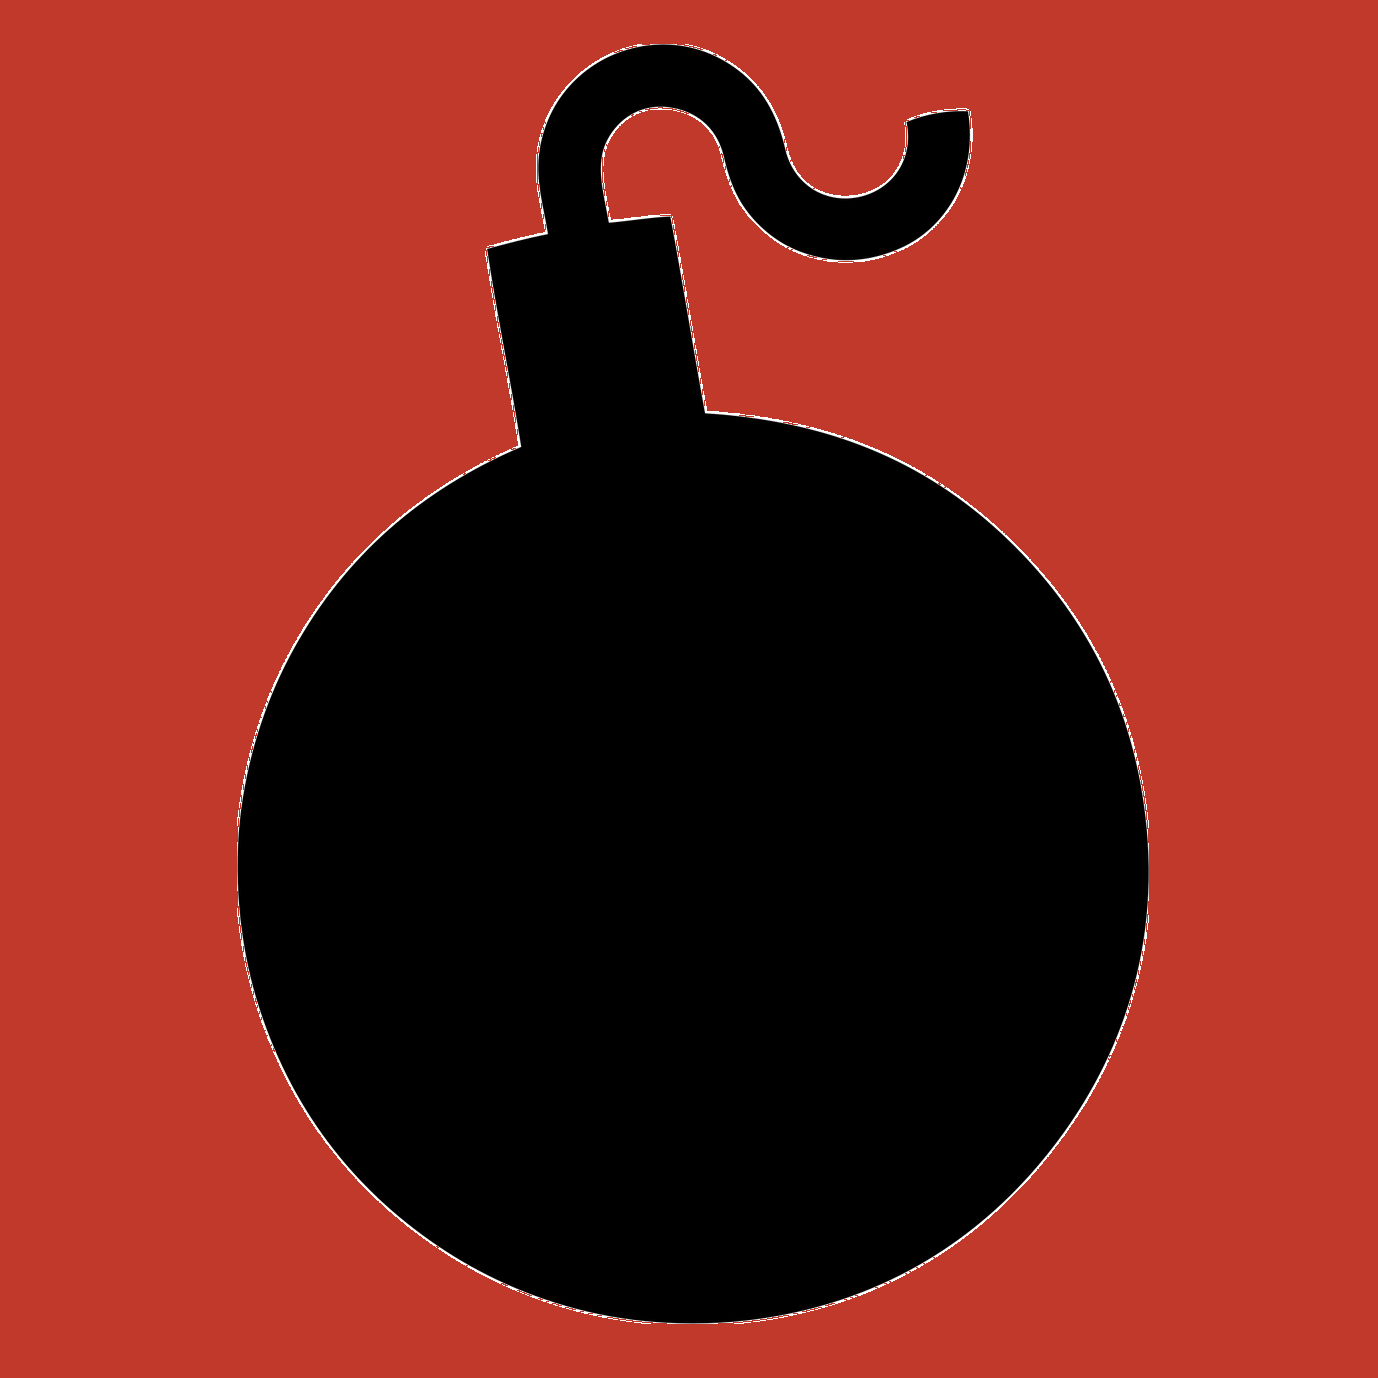
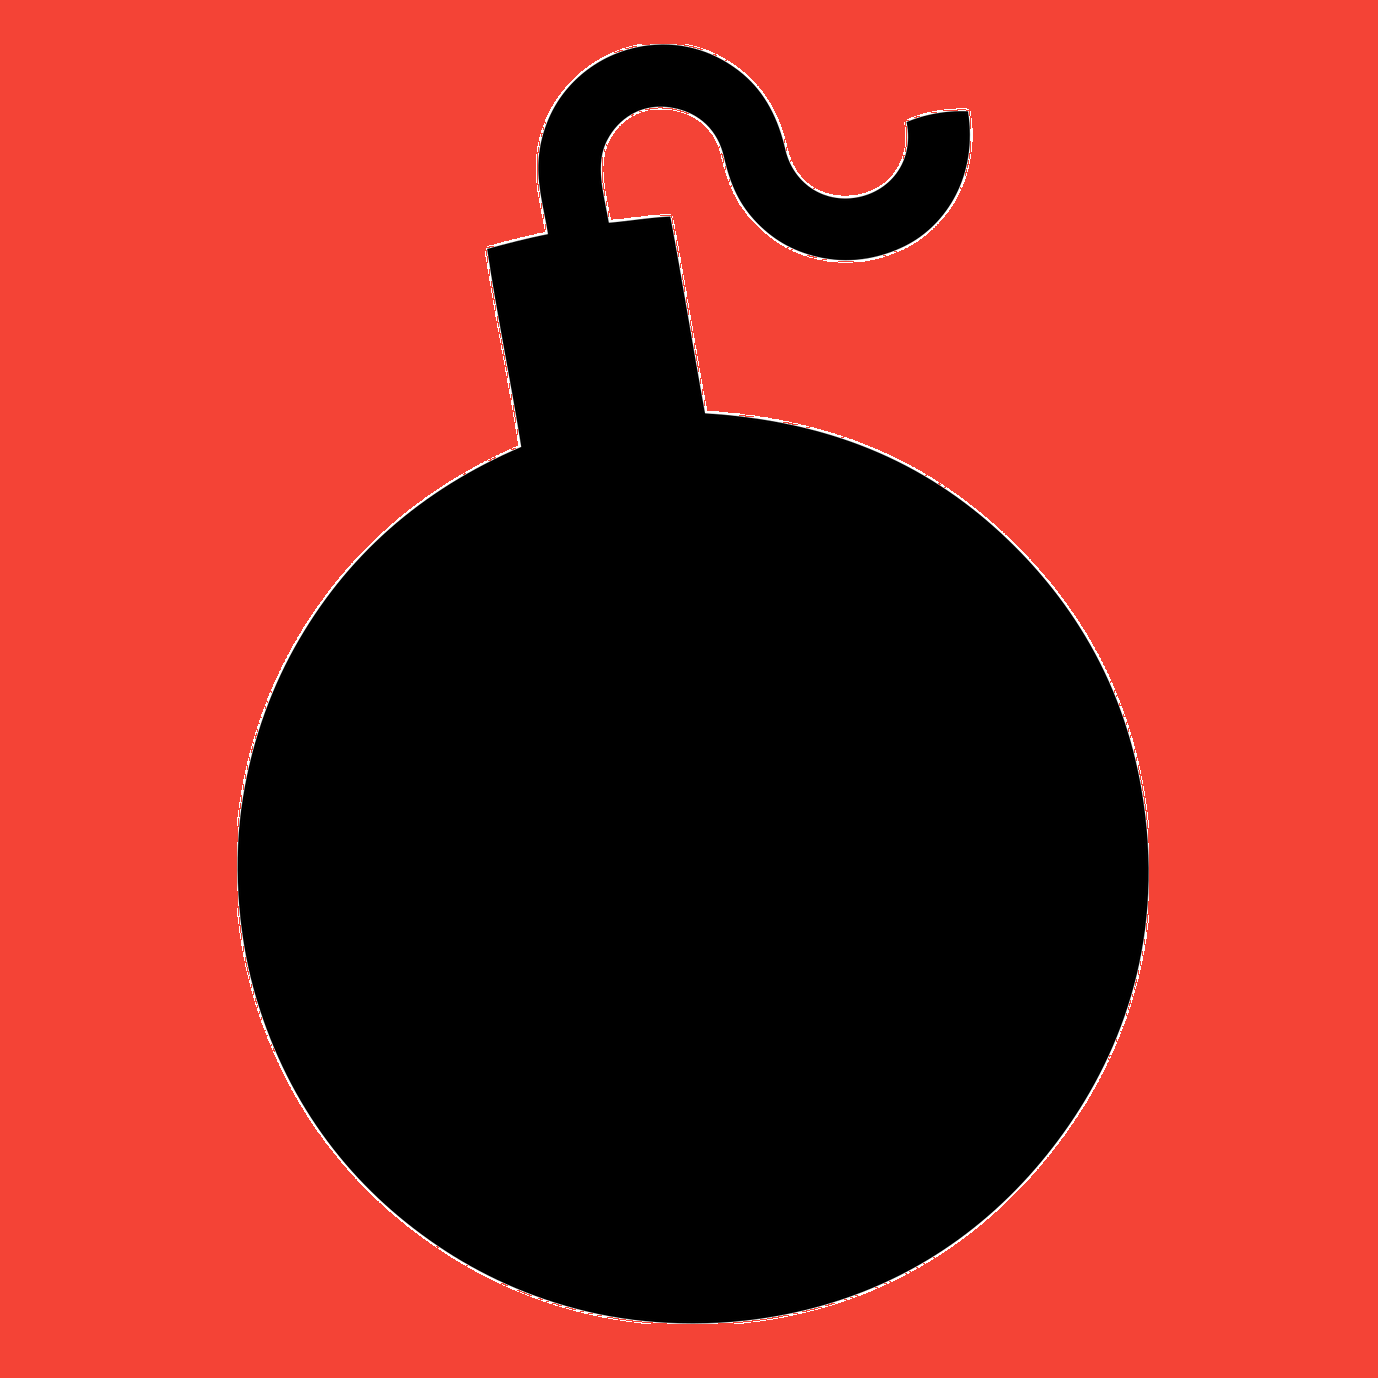
Altered colour design. Decoupled gamengine and audimanager. GameManager is now managing the ingame sounds

diff --git a/SnakeUi/MVVM/View/Game/InfoboardView.xaml b/SnakeUi/MVVM/View/Game/InfoboardView.xaml
@@ -14,9 +14,6 @@
         <CornerRadius x:Key="CornerRadius">10</CornerRadius>
         <Thickness x:Key="ImageMargin">50,0,0,0</Thickness>
         <Thickness x:Key="ValueMargin">30,0,0,0</Thickness>
-        <SolidColorBrush x:Key="BorderBackground" Color="#2f3640" />
-        <SolidColorBrush x:Key="LabelTextColor" Color="#7f8fa6" />
-        <SolidColorBrush x:Key="ValueTextColor" Color="#dcdde1" />
     </UserControl.Resources>
 
     <Grid Margin="0,0,0,5">
@@ -36,7 +33,7 @@
             Grid.Column="0"
             Grid.Row="0"
             CornerRadius="{StaticResource CornerRadius}"
-            Background="{StaticResource BorderBackground}"
+            Background="{StaticResource ButtonBackgroundBrush}"
             Margin="0,0,5,0">
 
             <StackPanel Orientation="Horizontal">
@@ -49,7 +46,7 @@
                 <TextBlock 
                     FontSize="{StaticResource ValueFontSize}"
                     Margin="{StaticResource ValueMargin}"
-                    Foreground="{StaticResource ValueTextColor}"
+                    Foreground="{StaticResource TextForegroundBrush}"
                     Text="{x:Bind InfoboardModel.SpeedFactor , Mode=OneWay}" />
             </StackPanel>
         </Border>
@@ -59,7 +56,7 @@
             Grid.Column="1"
             Grid.Row="0"
             CornerRadius="{StaticResource CornerRadius}"
-            Background="{StaticResource BorderBackground}"
+            Background="{StaticResource ButtonBackgroundBrush}"
             Margin="0,0,5,0">
             <StackPanel Orientation="Horizontal">
                 
@@ -73,7 +70,7 @@
                 <TextBlock 
                     FontSize="{StaticResource ValueFontSize}"
                     Margin="{StaticResource ValueMargin}"
-                    Foreground="{StaticResource ValueTextColor}"
+                    Foreground="{StaticResource TextForegroundBrush}"
                     Text="{x:Bind InfoboardModel.Score , Mode=OneWay}" />
                 
             </StackPanel>
@@ -84,7 +81,7 @@
             Grid.Column="2"
             Grid.Row="0"
             CornerRadius="{StaticResource CornerRadius}"
-            Background="{StaticResource BorderBackground}"
+            Background="{StaticResource ButtonBackgroundBrush}"
             Margin="0,0,5,0">
             <StackPanel Orientation="Horizontal">
                 
@@ -97,7 +94,7 @@
                 <TextBlock 
                     FontSize="{StaticResource ValueFontSize}"
                     Margin="{StaticResource ValueMargin}"
-                    Foreground="{StaticResource ValueTextColor}"
+                    Foreground="{StaticResource TextForegroundBrush}"
                     Text="{x:Bind InfoboardModel.LengthOfSnake , Mode=OneWay}" />
                 
             </StackPanel>
@@ -108,7 +105,7 @@
             Grid.Column="3"
             Grid.Row="0"
             CornerRadius="{StaticResource CornerRadius}"
-            Background="{StaticResource BorderBackground}">
+            Background="{StaticResource ButtonBackgroundBrush}">
             <StackPanel Orientation="Horizontal">
                 
                 <Image
@@ -120,7 +117,7 @@
                 <TextBlock 
                     FontSize="{StaticResource ValueFontSize}"
                     Margin="{StaticResource ValueMargin}"
-                    Foreground="{StaticResource ValueTextColor}"
+                    Foreground="{StaticResource TextForegroundBrush}"
                     Text="---" />
             </StackPanel>
         </Border>

diff --git a/SnakeUi/App.xaml b/SnakeUi/App.xaml
@@ -12,13 +12,13 @@
                 <!-- Other merged dictionaries here -->
             </ResourceDictionary.MergedDictionaries>
 
-            <SolidColorBrush x:Key="CustomBarBackgroundColor" Color="#222"/>
+            <SolidColorBrush x:Key="CustomBarBackgroundColor" Color="#2a2a3d"/>
             <Thickness x:Key="ContentMarginForCustomBar">0,32,0,0</Thickness>
 
-            <SolidColorBrush x:Key="ButtonBackgroundBrush" Color="#4C4A48"/>
-            <SolidColorBrush x:Key="TextForegroundBrush" Color="White" />
-            <SolidColorBrush x:Key="ViewBackgroundBrush" Color="#2E2D2B" />
-
+            <SolidColorBrush x:Key="ButtonBackgroundBrush" Color="#3b3b55"/>
+            <SolidColorBrush x:Key="TextForegroundBrush" Color="#e0e0e0" />
+            <SolidColorBrush x:Key="ViewBackgroundBrush" Color="#1e1e2f" />
+          
             <x:Double x:Key="ButtonWidth">200</x:Double>
         </ResourceDictionary>
     </Application.Resources>

diff --git a/SnakeCore/Controller/GameEngine.cs b/SnakeCore/Controller/GameEngine.cs
@@ -20,13 +20,13 @@ namespace SnakeCore.Controller
         public InfoboardModel InfoboardModel { get; private set; } = new();
         public SnakeModel Snake { get; private set; } = new();
 
-        private IAudioService _audioService { get; set; }
-
         private List<CollectableItemModel> _collectableItems { get; set; } = new();
         private CollectableEffectHandler _collectableHandler { get; set; }
 
         public GameState GameState { get; private set; } = GameState.Paused;
+
         public event Action? GameOver;
+        public event Action<SoundEffectType> ItemCollected;
 
         private Direction _currentDirection { get; set; }
 
@@ -34,10 +34,8 @@ namespace SnakeCore.Controller
         /// Initializes a new instance of the GameEngine class.
         /// </summary>
         /// <param name="audioservice">The audio service for music and sound effects.</param>
-        public GameEngine(IAudioService audioservice)
+        public GameEngine()
         {
-            this._audioService = audioservice;
-
             this.GameboardModel = new GameboardModel(this.Snake);
             this._collectableHandler = new CollectableEffectHandler(this.Snake, this.InfoboardModel);
 
@@ -52,7 +50,6 @@ namespace SnakeCore.Controller
         public void Run()
         {
             this.GameState = GameState.Running;
-            this._audioService.PlayMusic(GameMusicType.GameLoop);
         }
 
         /// <summary>
@@ -61,7 +58,6 @@ namespace SnakeCore.Controller
         public void Stop()
         {
             this.GameState = GameState.Paused;
-            this._audioService.StopMusic();
         }
 
         /// <summary>
@@ -148,7 +144,7 @@ namespace SnakeCore.Controller
         private void HandleItemCollected(CollectableItemModel item)
         {
             this._collectableHandler.Handle(item);
-            this._audioService.PlayEffect(item.SoundEffect);
+            this.ItemCollected.Invoke(item.SoundEffect);
         }
 
         /// <summary>

diff --git a/SnakeUi/Controller/GameManager.cs b/SnakeUi/Controller/GameManager.cs
@@ -17,7 +17,7 @@ namespace SnakeUi.Controller
     /// </summary>
     public class GameManager
     {
-        private GameEngine _gameEngine { get; set; } = new(AudioManager.Instance);
+        private GameEngine _gameEngine { get; set; } = new();
         private DateTime _lastUpdate { get; set; } = DateTime.Now;
         public List<CellModel> Cells
         {
@@ -31,10 +31,9 @@ namespace SnakeUi.Controller
             this.InfoboardModel = this._gameEngine.InfoboardModel;
             CompositionTarget.Rendering += this.OnRendering;
 
-            this._gameEngine.GameOver += () =>
-            {
-                this.OnGameOver?.Invoke();  
-            };
+            this._gameEngine.GameOver += () => this.OnGameOver?.Invoke();
+
+            this._gameEngine.ItemCollected += (soundEffectType) => this.PlayEffect(soundEffectType);      
         }
 
 
@@ -44,6 +43,7 @@ namespace SnakeUi.Controller
         public void StartGame()
         {
             this._gameEngine.Run();
+            AudioManager.Instance.PlayMusic(GameMusicType.GameLoop);
         }
 
         /// <summary>
@@ -52,12 +52,18 @@ namespace SnakeUi.Controller
         public void StopGame()
         {
             this._gameEngine.Stop();
+            AudioManager.Instance.PlayMusic(GameMusicType.MenuLoop);
         }
 
         public void Reset()
         {
             this._gameEngine.Reset();
             this.InfoboardModel = this._gameEngine.InfoboardModel;
+        }
+
+        private void PlayEffect(SoundEffectType effectType)
+        {
+            AudioManager.Instance.PlayEffect(effectType);
         }
 
         /// <summary>

diff --git a/SnakeUi/Config/UiConstants.cs b/SnakeUi/Config/UiConstants.cs
@@ -16,10 +16,8 @@ namespace SnakeUi.Config
         public const double CORNER_RADIUS = 7;
         public const double BORDER_MARGIN = 0.3;
 
-        public const string EMPTY_CELL_HEX_COLOR = "#2c3e50";
+        public const string EMPTY_CELL_HEX_COLOR = "#2a2a3d";
         public const string COLLECTABLE_CELL_HEX_COLOR = "#7f8c8d";
-        public const string SNAKE_HEX_COLOR = "#7f8c8d";
-
-        public const string GUI_ELEMENT_BACKGROUND_HEX_COLOR = "#4C4A48";
+        public const string SNAKE_HEX_COLOR = "#76ff03";
     }
 }

diff --git a/SnakeUi/Controller/AppStateManager.cs b/SnakeUi/Controller/AppStateManager.cs
@@ -48,6 +48,8 @@ namespace SnakeUi.Controller
         {
             this._audioService.PlayMusic(GameMusicType.MenuLoop);
             this.AppState = AppState.MainMenu;
+
+            this.GameManager.StopGame();
         }
 
         /// <summary>
